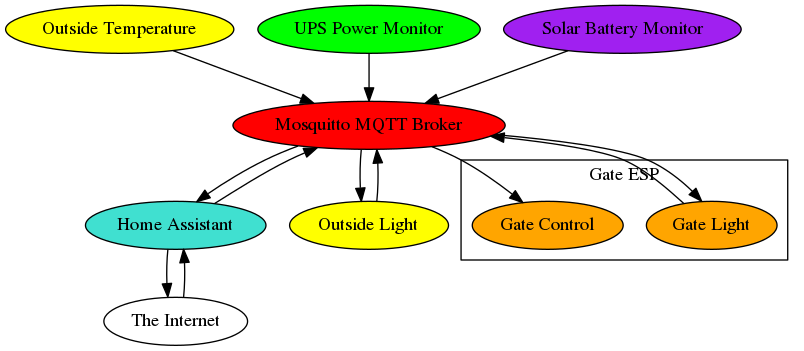
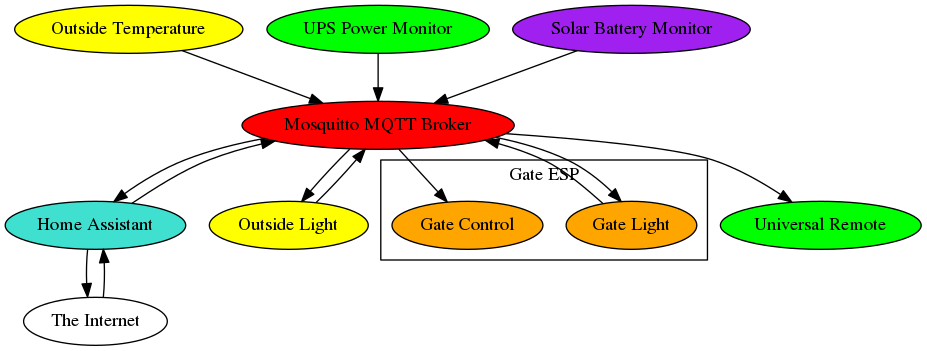
Updated documentation

diff --git a/Doc/overview.py b/Doc/overview.py
@@ -35,6 +35,10 @@ node_h = pydot.Node("Solar Battery Monitor",
 node_i = pydot.Node("The Internet",
                     style="filled", fillcolor="white")
 
+# Universal Remote Control
+node_j = pydot.Node("Universal Remote",
+                    style="filled", fillcolor="green")
+
 # now we add the nodes to the graph
 graph.add_node(node_a)
 graph.add_node(node_b)
@@ -50,6 +54,8 @@ graph.add_node(node_g)
 graph.add_node(node_h)
 
 graph.add_node(node_i)
+
+graph.add_node(node_j)
 
 # Home assistant subscribes and publishes
 graph.add_edge(pydot.Edge(node_a, node_b))
@@ -71,6 +77,8 @@ graph.add_edge(pydot.Edge(node_a, node_f))
 
 graph.add_edge(pydot.Edge(node_i, node_b))
 graph.add_edge(pydot.Edge(node_b, node_i))
+
+graph.add_edge(pydot.Edge(node_a, node_j))
 
 graph.write_raw('kydhome_img/overview.dot')
 # and we are done
